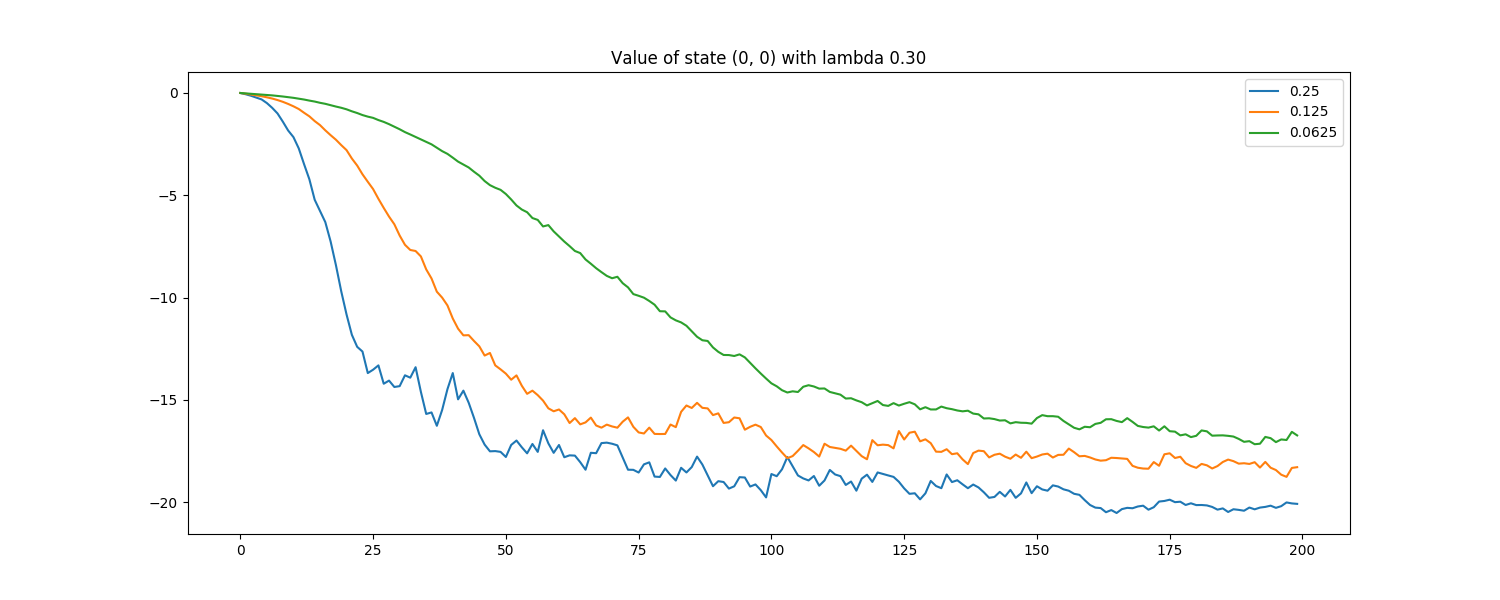
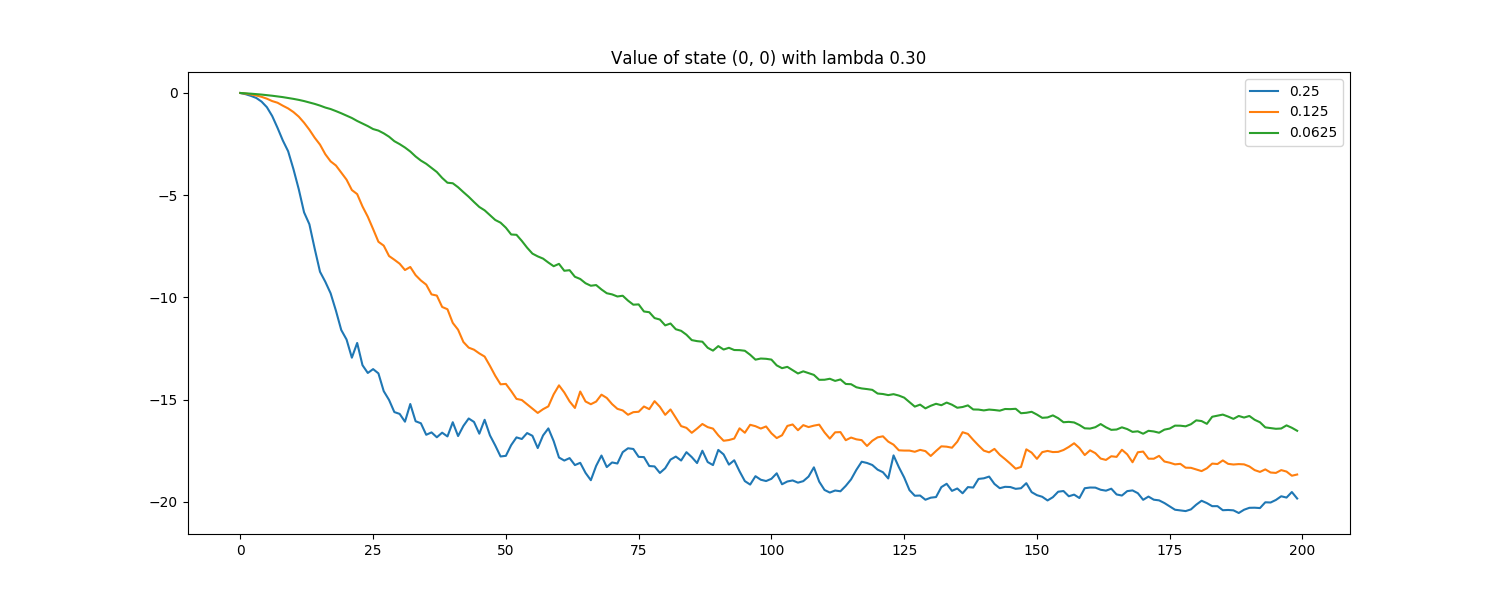
Non-homogeneous tile spacing

diff --git a/modelFree.py b/modelFree.py
@@ -166,7 +166,7 @@ gamma = 0.9
 decay_factor_list = [0, 0.3, 0.7, 0.9, 1]
 
 pol = Policy(0.9, 1)
-disp_vector = np.array([1, 1])
+disp_vector = np.array([1, 2])
 tile = TileCoding(5, 10, disp_vector)
 model = Model(inp_size)
 ret = ReturnCalculator()
